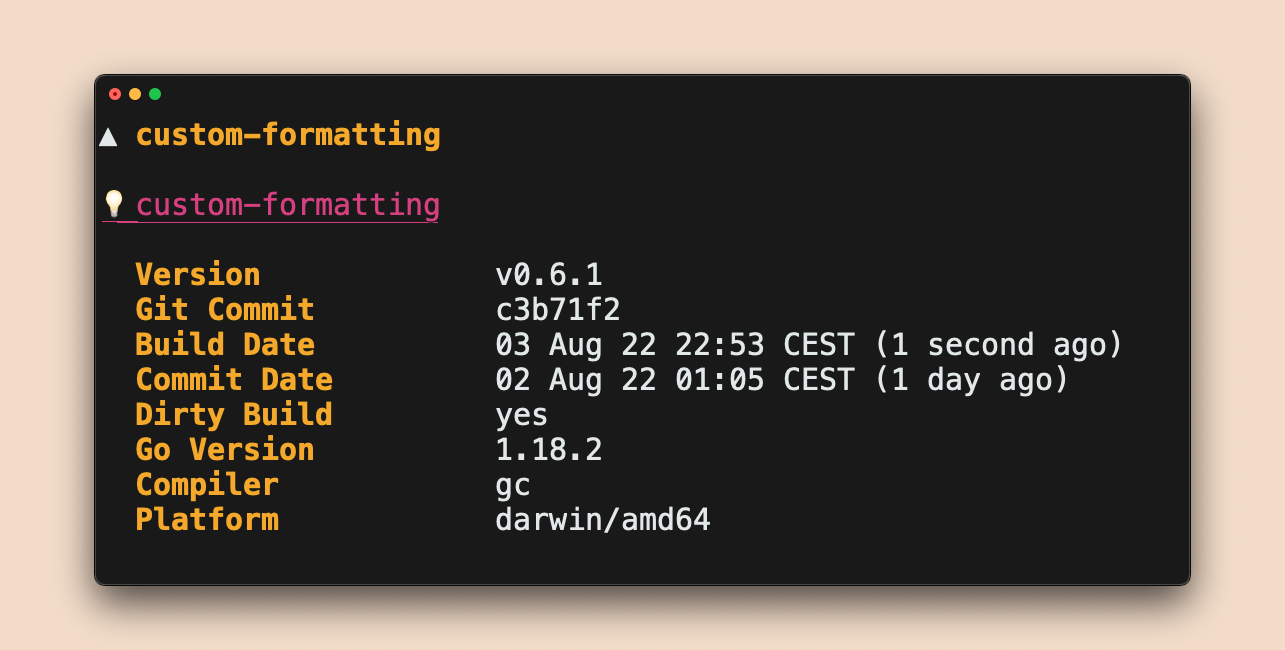
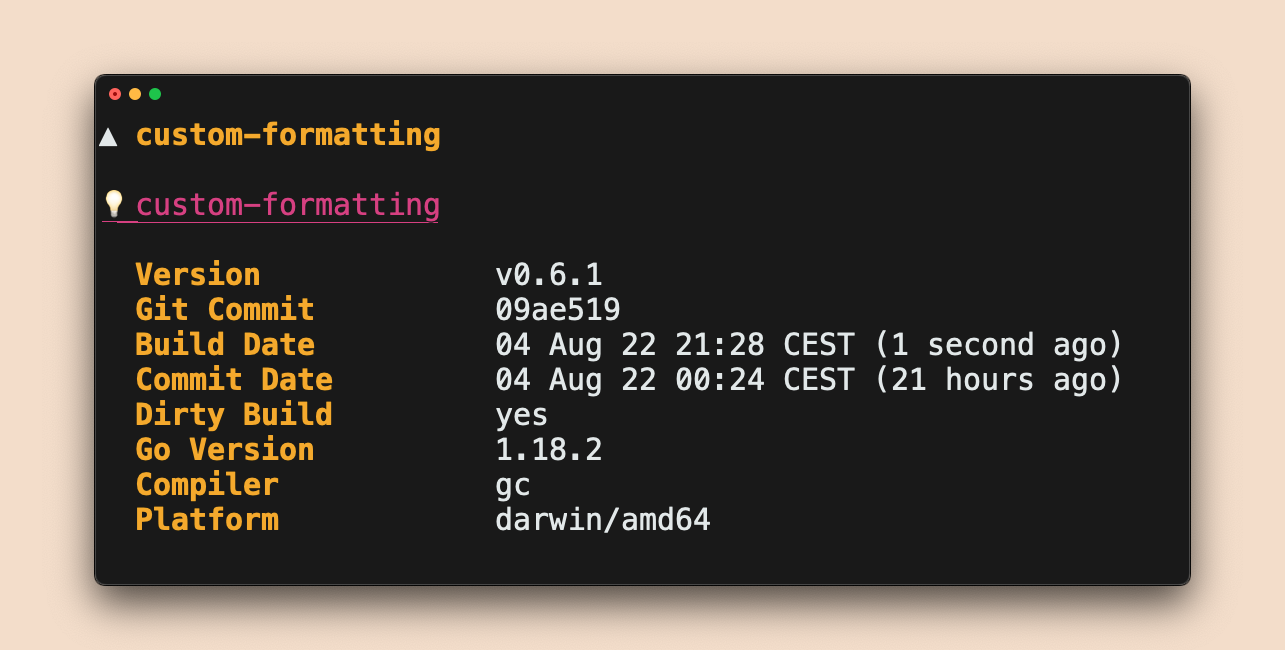
Call collect info automatically

diff --git a/version.go b/version.go
@@ -4,6 +4,7 @@ import (
 	"fmt"
 	"runtime"
 	"runtime/debug"
+	"sync"
 )
 
 // Info contains versioning information.
@@ -26,6 +27,8 @@ type Meta struct {
 	CLIName string
 }
 
+var collectOnce sync.Once
+
 // Get returns the overall codebase version.
 // It's for detecting what code a binary was built from.
 //
@@ -38,6 +41,7 @@ type Meta struct {
 //      * dirtyBuild is taken from the vcs.modified tag.
 //   3. in their absence fallback to the settings in ./base.go.
 func Get() *Info {
+	collectOnce.Do(collectFromBuildInfo)
 	return &Info{
 		Meta:       Meta{CLIName: name},
 		Version:    version,
@@ -51,9 +55,9 @@ func Get() *Info {
 	}
 }
 
-// CollectFromBuildInfo tries to set the build information embedded in the running binary via Go module.
+// collectFromBuildInfo tries to set the build information embedded in the running binary via Go module.
 // It doesn't override data if were already set by Go -ldflags.
-func CollectFromBuildInfo() {
+func collectFromBuildInfo() {
 	info, ok := debug.ReadBuildInfo()
 	if !ok {
 		return

diff --git a/cobra.go b/cobra.go
@@ -27,7 +27,7 @@ func NewCobraCmd(opts ...CobraExtensionOption) *cobra.Command {
 	}
 
 	printer := NewPrinter(options.PrinterOptions...)
-	CollectFromBuildInfo()
+	collectFromBuildInfo()
 
 	ver := &cobra.Command{
 		Use:     "version",

diff --git a/example/custom-renderer/main.go b/example/custom-renderer/main.go
@@ -11,8 +11,6 @@ import (
 )
 
 func main() {
-	version.CollectFromBuildInfo()
-
 	printer := version.NewPrinter(version.WithPrettyRenderer(prettyRender))
 	if err := printer.Print(os.Stdout); err != nil {
 		log.Fatal(err)

diff --git a/example/printer/main.go b/example/printer/main.go
@@ -10,8 +10,6 @@ import (
 )
 
 func main() {
-	version.CollectFromBuildInfo()
-
 	printer := version.NewPrinter()
 	printer.RegisterPFlags(pflag.CommandLine) // optionally register `--output/-o` flag.
 	pflag.Parse()

diff --git a/example/custom-layout/main.go b/example/custom-layout/main.go
@@ -14,8 +14,6 @@ import (
 )
 
 func main() {
-	version.CollectFromBuildInfo()
-
 	opts := []version.PrinterContainerOption{
 		version.WithPrettyPostRenderHook(SprintInBox),
 		version.WithPrettyLayout(style.Layout{

diff --git a/example/custom-formatting/main.go b/example/custom-formatting/main.go
@@ -9,8 +9,6 @@ import (
 )
 
 func main() {
-	version.CollectFromBuildInfo()
-
 	formatting := style.DefaultFormatting()
 	formatting.Header = style.Header{
 		Prefix: "💡 ",

diff --git a/example/plain/main.go b/example/plain/main.go
@@ -7,8 +7,6 @@ import (
 )
 
 func main() {
-	version.CollectFromBuildInfo()
-
 	info := version.Get()
 	fmt.Println()
 	fmt.Println("Version: ", info.Version)
